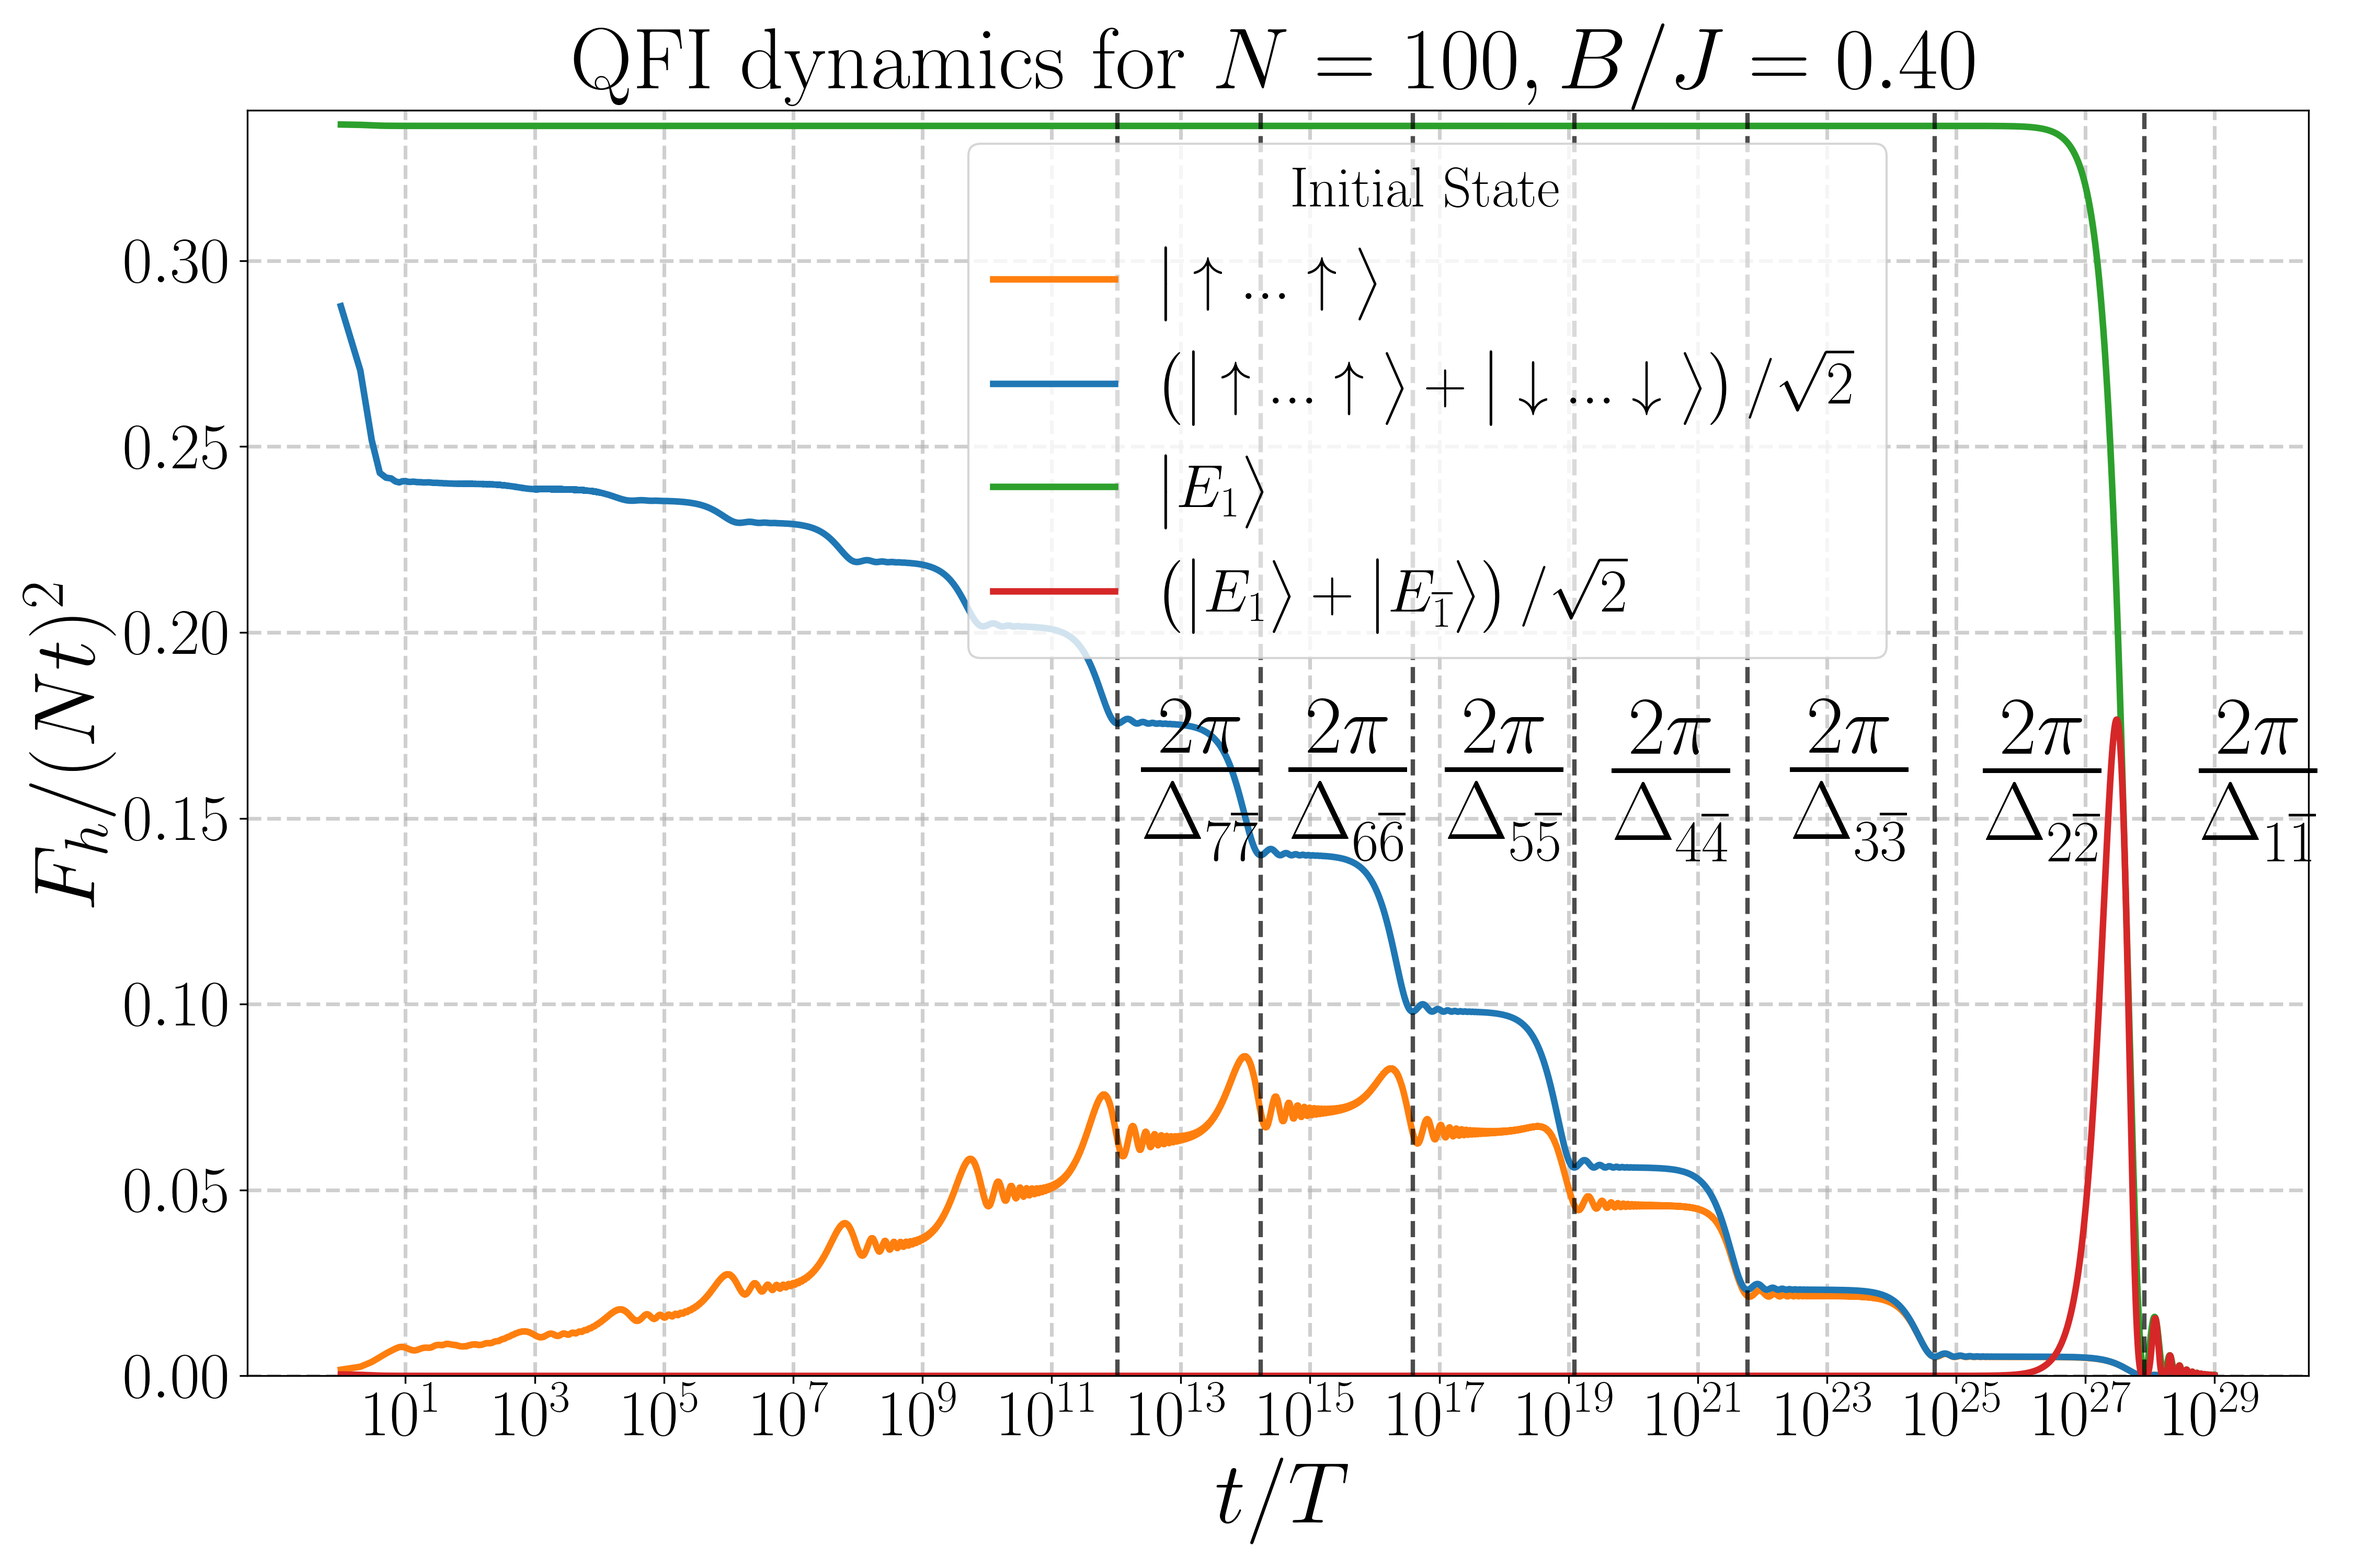
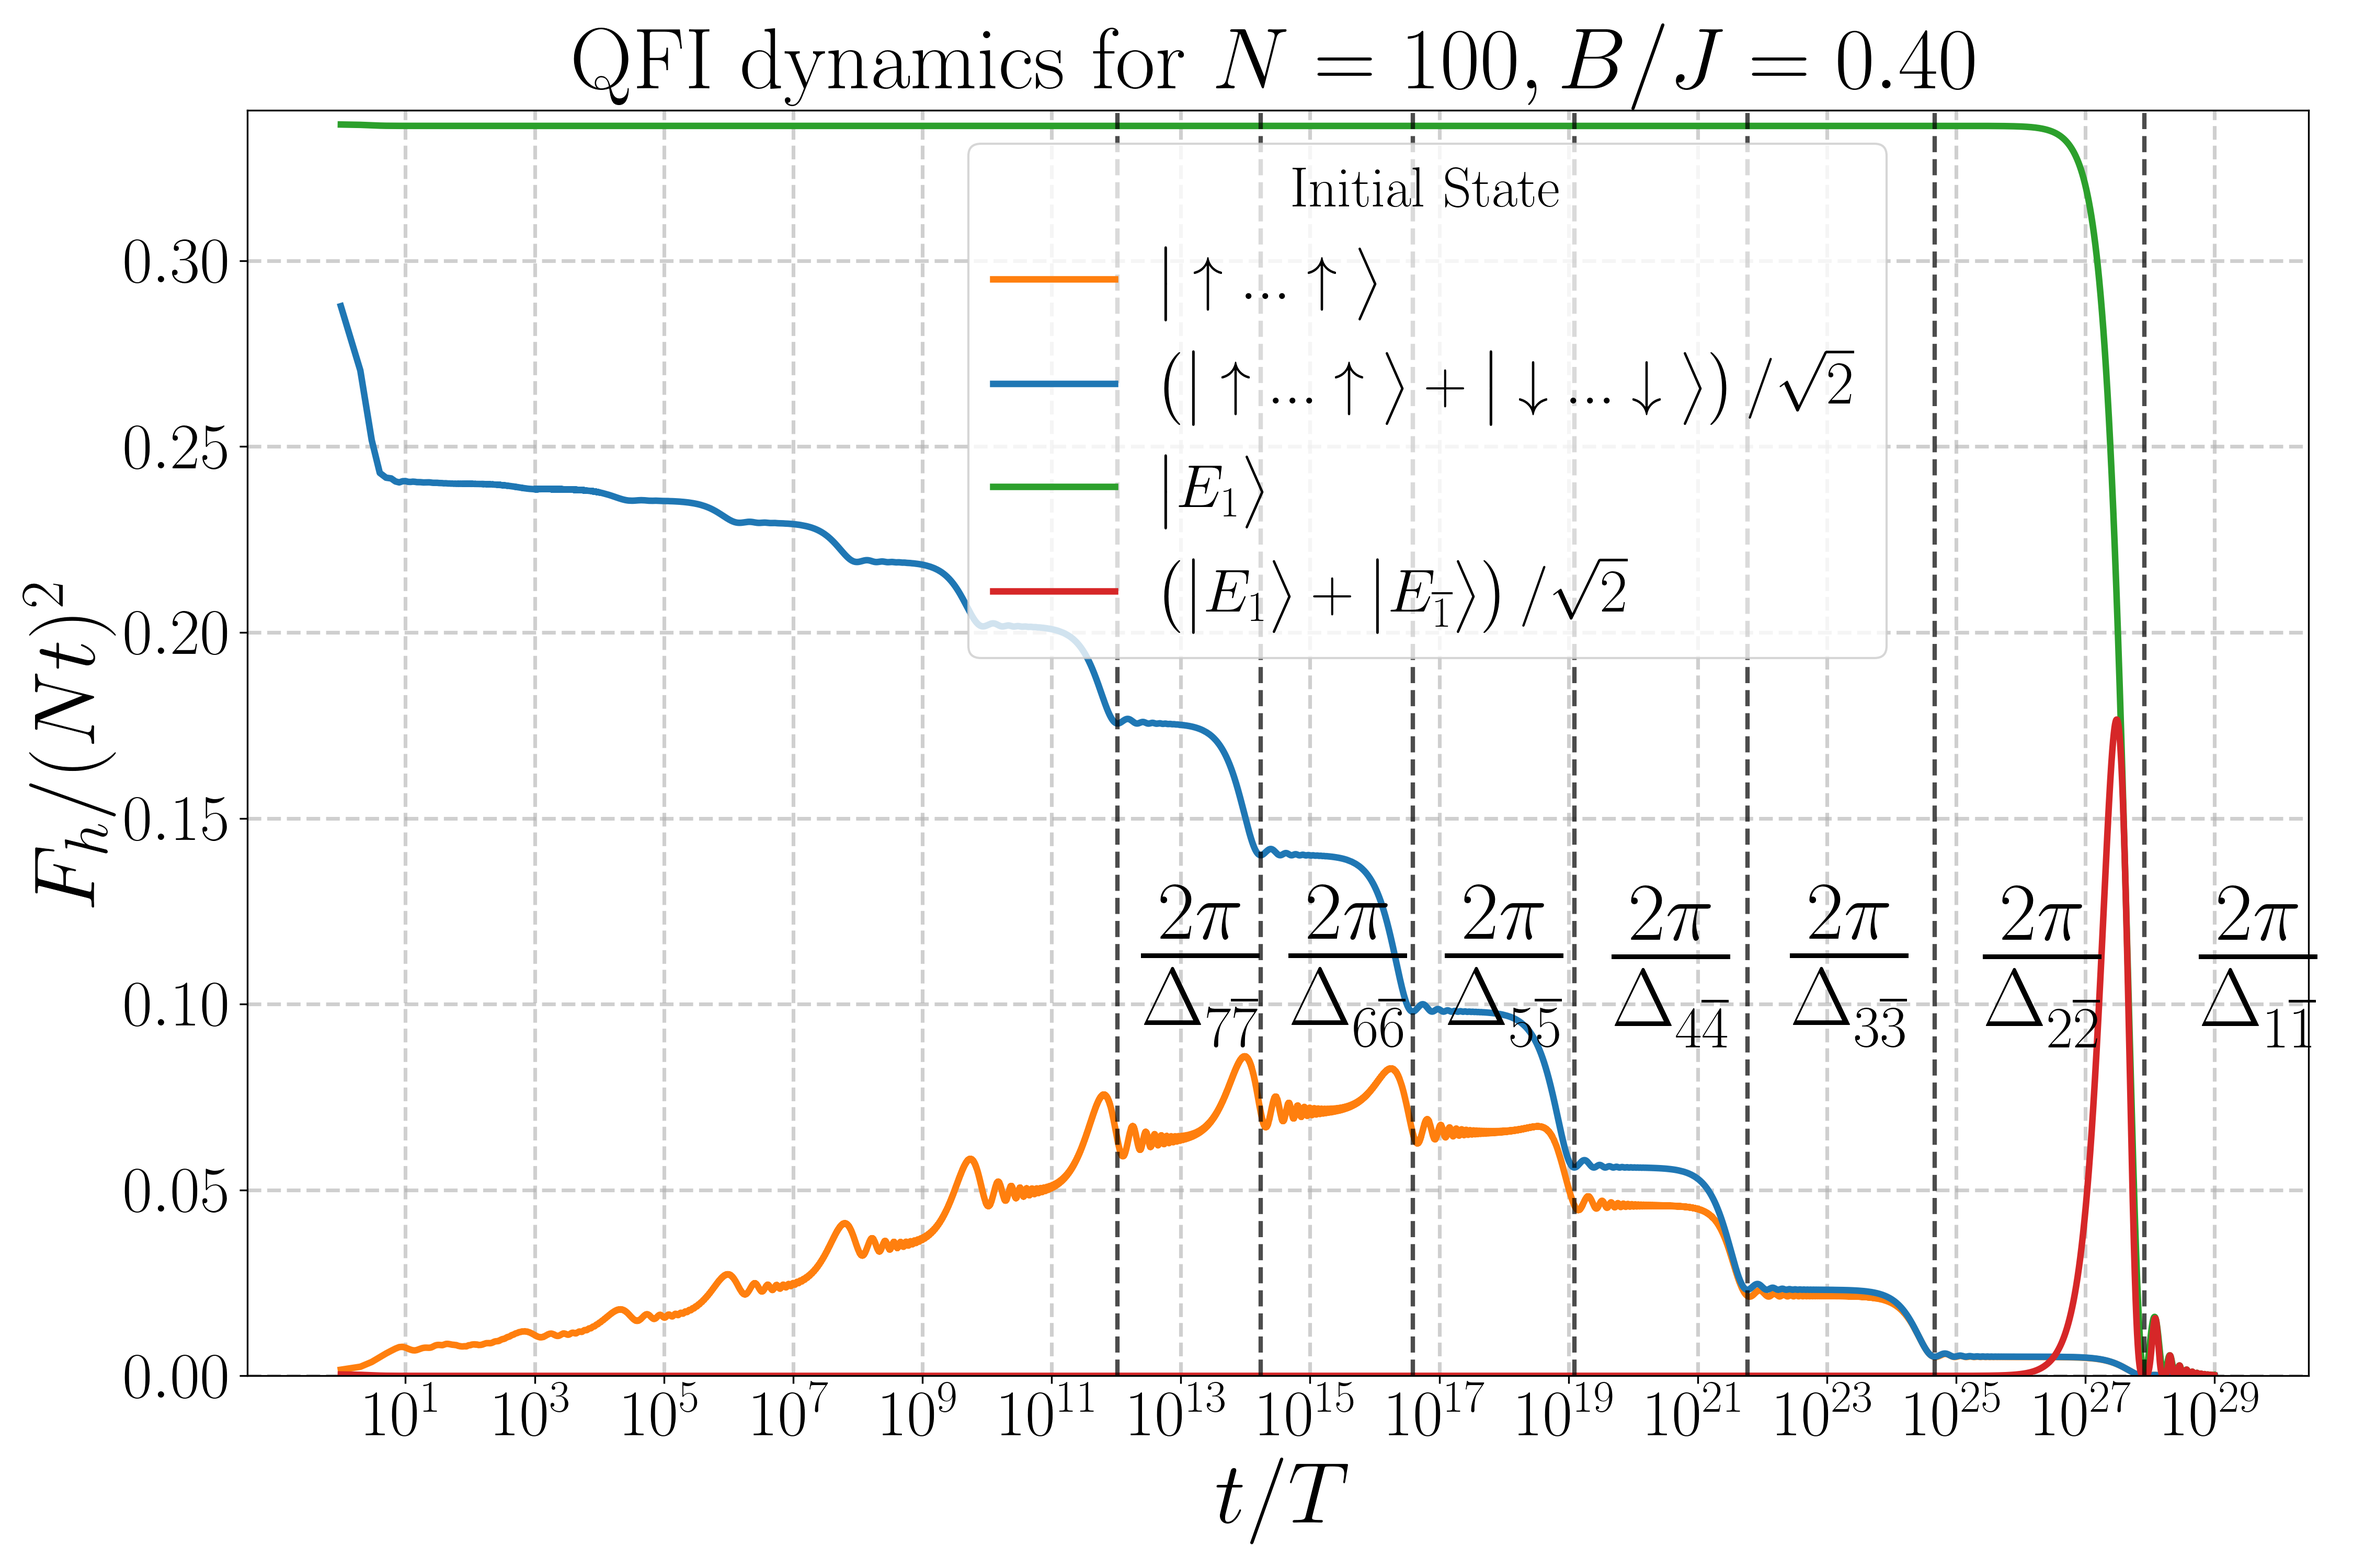
Lower the 2pi/Delta labels in the N = 100 plot
The labels at the default height (0.155) were crossed by the CatSum curve
for N = 100. plot_results.py gets a --label-y option; the N = 100 plot uses
0.105, which clears most labels (the staircase of the curve leaves no height
that clears all of them).

diff --git a/fortran/scripts/plot_results.py b/fortran/scripts/plot_results.py
@@ -22,8 +22,8 @@ import matplotlib.pyplot as plt  # noqa: E402
 import mpmath as mp  # noqa: E402
 import pandas as pd  # noqa: E402
 
+import lmg_qfi.plotting as plotting  # noqa: E402
 from lmg_qfi.config import read_defaults_args_from_config  # noqa: E402
-from lmg_qfi.plotting import plot_qfi_data_subplot  # noqa: E402
 
 STATES = ("PHYS", "CAT_SUM", "GS_CAT", "GS_PHYS")
 
@@ -36,7 +36,11 @@ def main() -> None:
     parser.add_argument("--prefix", default="fortran.", help="file prefix (default 'fortran.')")
     parser.add_argument("--output", type=Path, help="default: DATA_DIR/qfi_dynamics_N=<N>_B=<B>.png")
     parser.add_argument("--width", type=float, default=15.0, help="figure width in inches (default 15)")
+    parser.add_argument("--label-y", type=float, default=plotting.Y_LABEL_COORDINATE,
+                        help="height of the 2pi/Delta labels in units of the y axis "
+                             f"(default {plotting.Y_LABEL_COORDINATE})")
     args = parser.parse_args()
+    plotting.Y_LABEL_COORDINATE = args.label_y
 
     params = read_defaults_args_from_config()
     params.N = args.system_size
@@ -53,7 +57,7 @@ def main() -> None:
         parser.error(f"no {args.prefix}<STATE>_{label}.csv files in {args.data_dir}")
 
     fig, ax = plt.subplots(figsize=(args.width, 10))
-    plot_qfi_data_subplot(ax, simulations, params, max_time_pow=None)
+    plotting.plot_qfi_data_subplot(ax, simulations, params, max_time_pow=None)
     plt.tight_layout()
     output = args.output or args.data_dir / f"qfi_dynamics_{label}.png"
     plt.savefig(output, dpi=300)

diff --git a/fortran/README.md b/fortran/README.md
@@ -232,12 +232,13 @@ about 100 times denser than the standard one: every period up to 10⁴ and
 ```bash
 uv run python fortran/scripts/dense_time_grid.py --system-size 100 times_N100.txt
 fortran/build/lmg_qfi --system-size 100 --steps 250 --times-file times_N100.txt --output-dir results/dense
-uv run python fortran/scripts/plot_results.py results/dense 100
+uv run python fortran/scripts/plot_results.py results/dense 100 --label-y 0.105
 ```
 
 `plot_results.py` draws the curves with the package's plotting function but
 reads only the solver's files, so they are not mixed with mpmath files of
-the same N. On 20 CPUs N = 60 takes 13 min for all four initial states and
+the same N; `--label-y` moves the 2π/Δ labels (default 0.155), here lower so
+that they cross the N = 100 curves less. On 20 CPUs N = 60 takes 13 min for all four initial states and
 N = 100 about 10 min per initial state (one array task each). N = 100 runs to
 t = 10²⁹, where quadruple precision is nearly exhausted: the states are
 accurate to about 2·10⁻³ at the last times (10⁻⁶ at t = 5·10²⁵), well below
